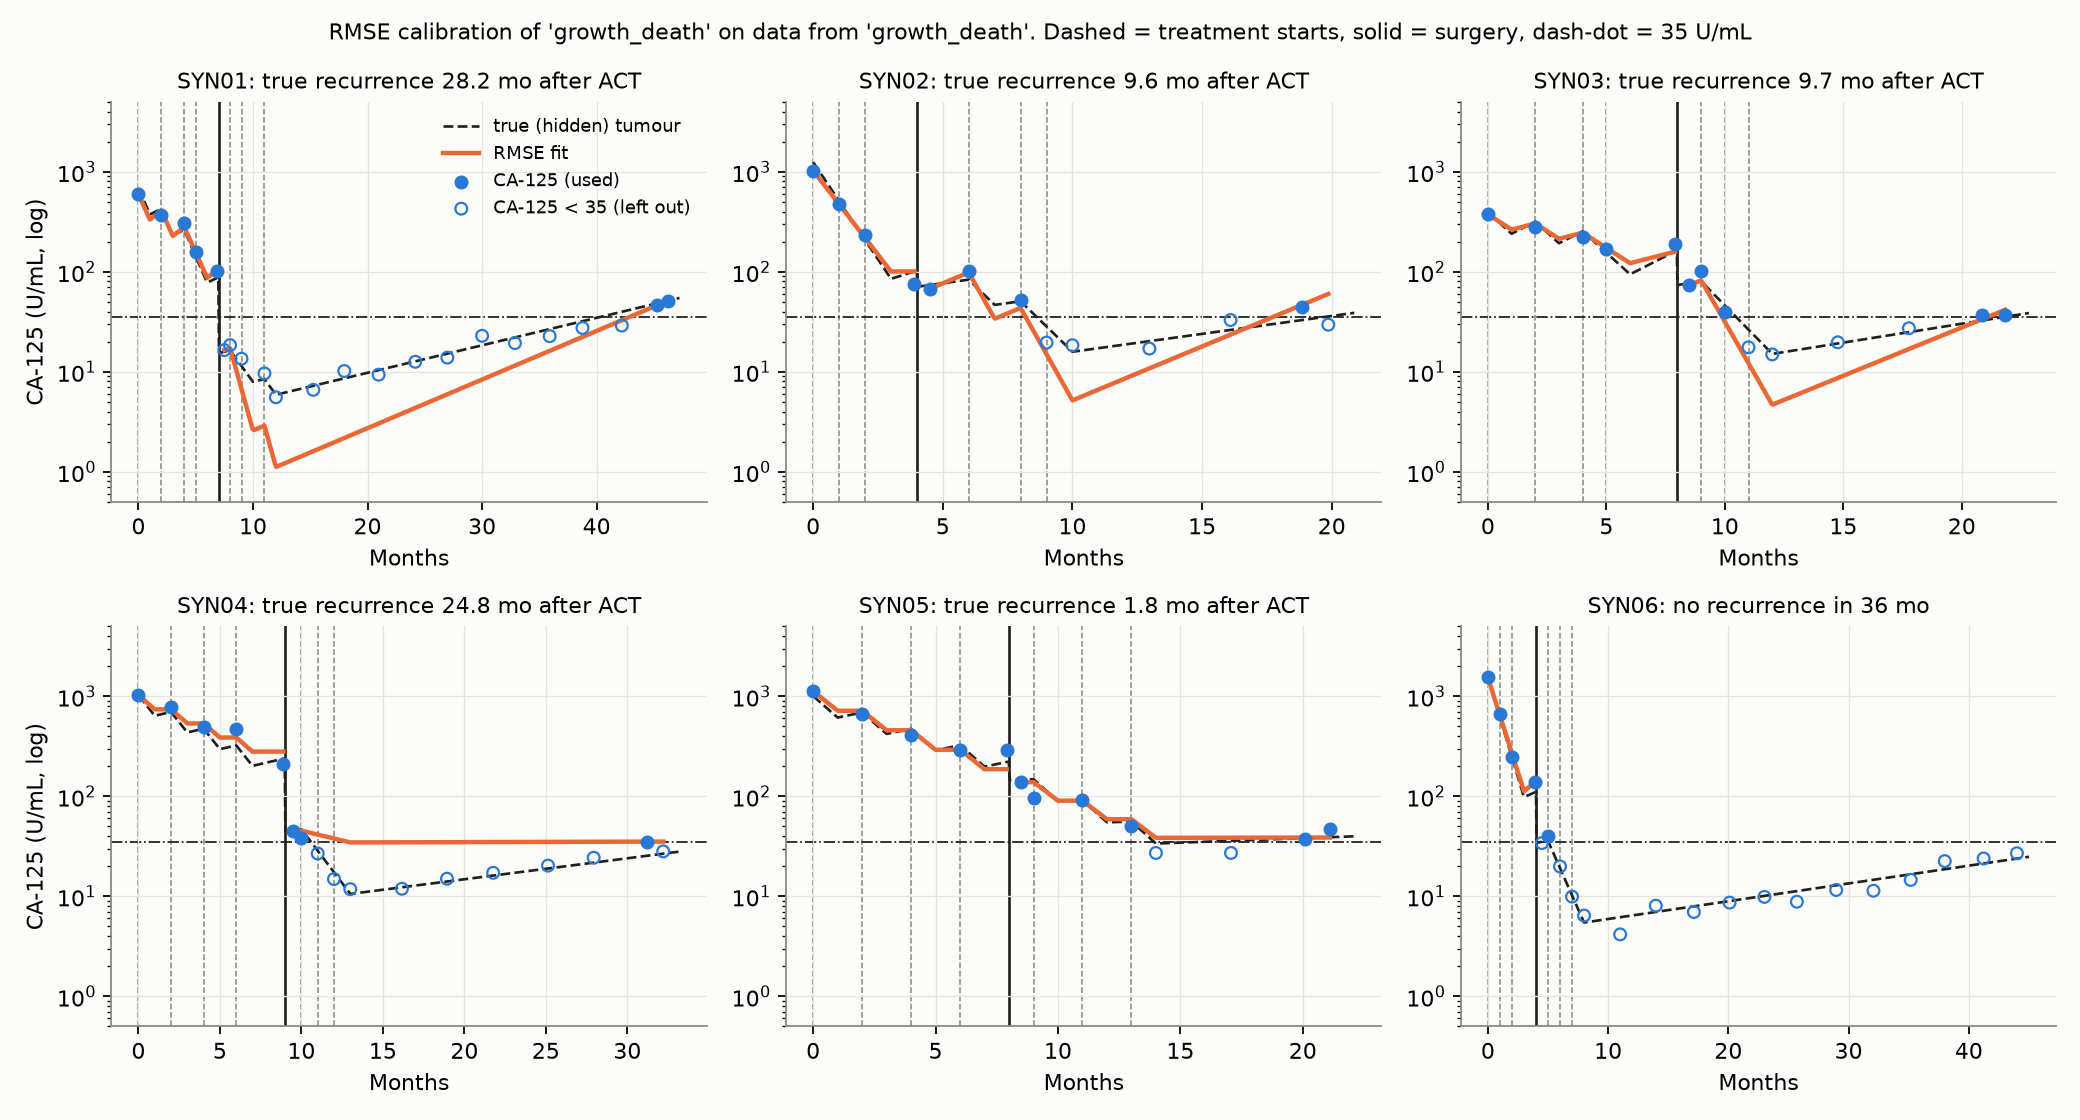
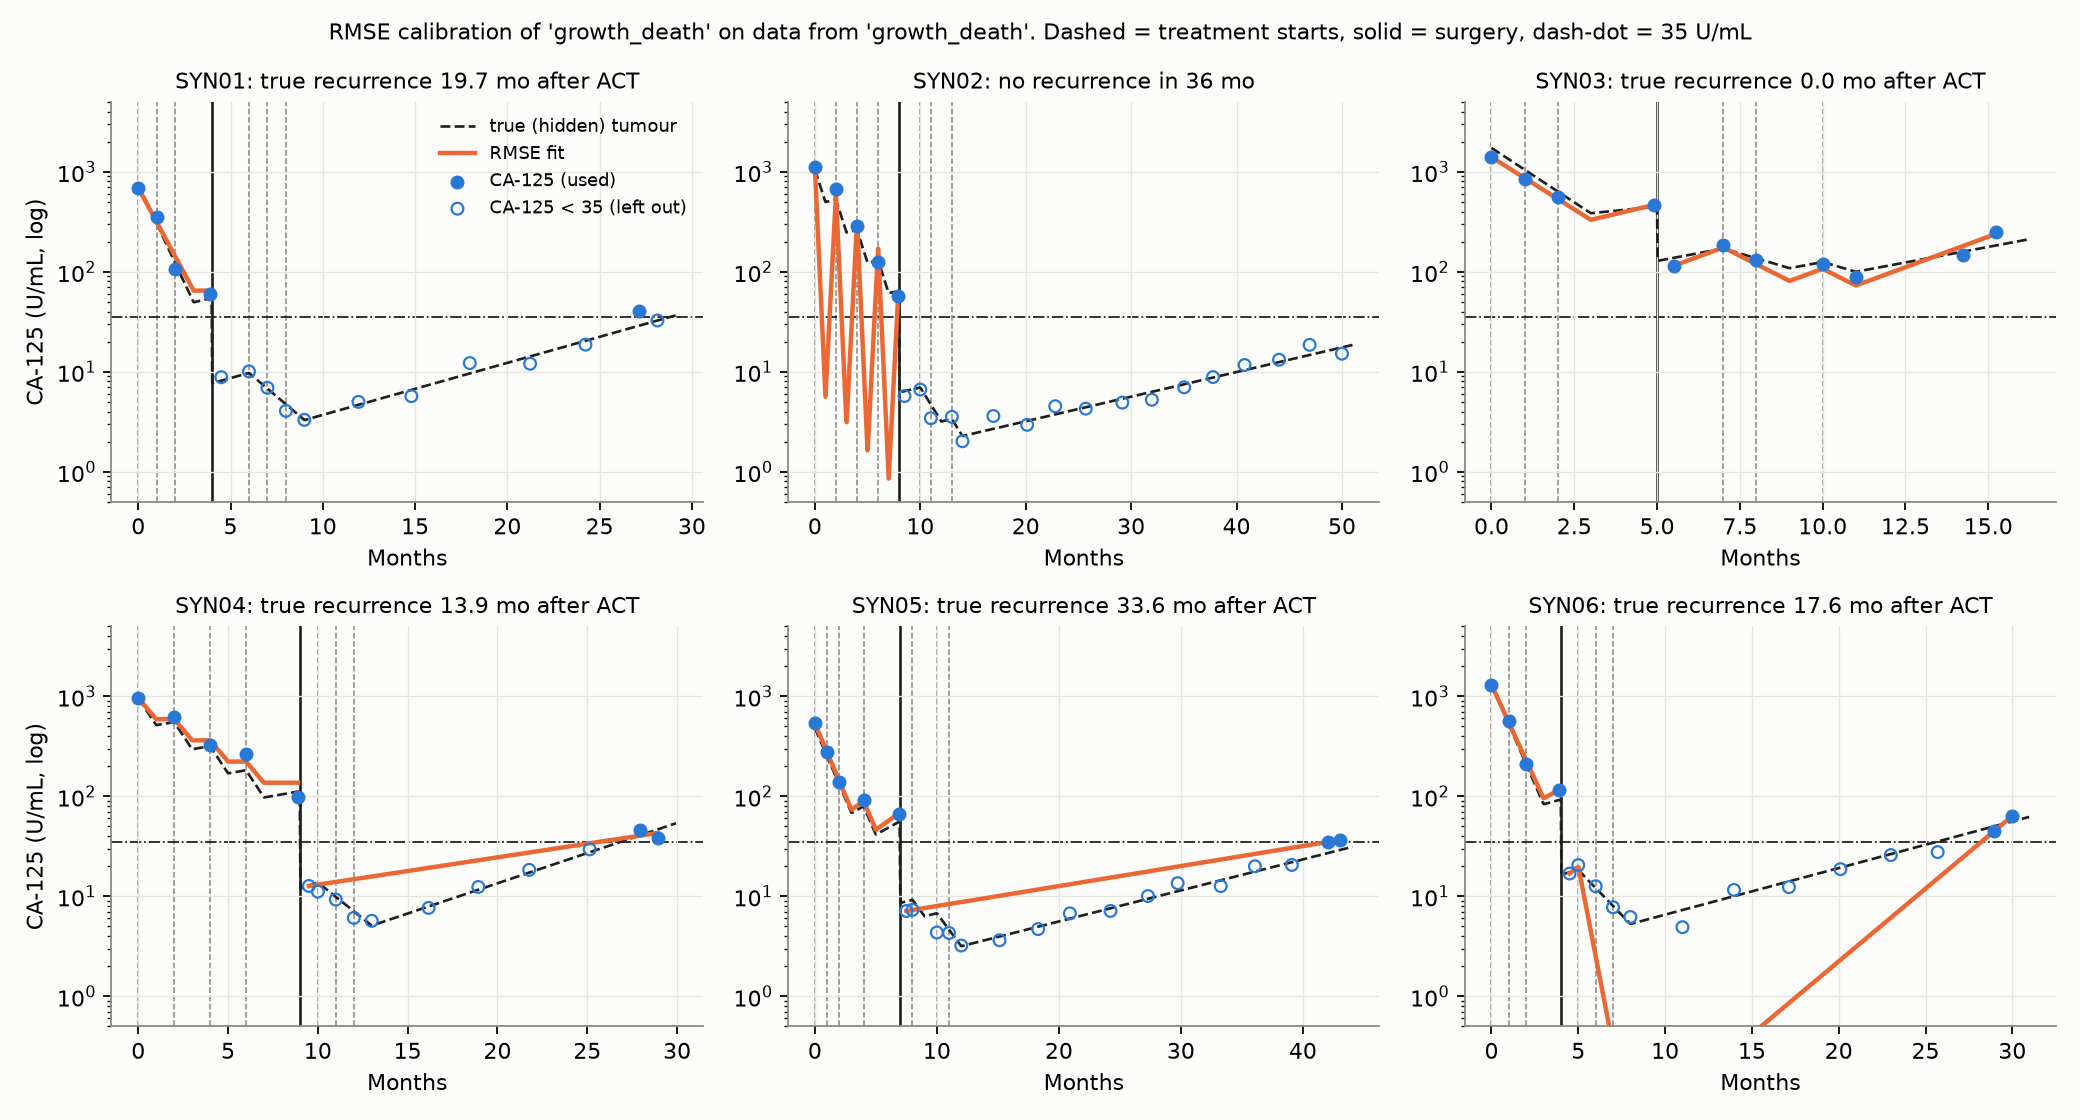
Surgery as the main drop; gate NACT level instead of the post-ACT nadir
- Gate: true CA-125 must stay >= 30 U/mL before surgery (NACT alone does not bring it
  very low); after surgery it may fall as low as the model takes it.
- Surgery jump gate now [0.01, 0.3] with median q = 0.2: surgery is the big drop.
- Population retuned: CA-125 just before surgery ~40 / 80 / 190 at the 10th / 50th /
  90th percentile; ~16% / 32% recur within 6 / 12 months after ACT.

diff --git a/ovca/config.py b/ovca/config.py
@@ -25,15 +25,16 @@ SURVEILLANCE_EVERY = 3.0     # a CA-125 reading every ~3 months during surveilla
 GRID_STEP = 0.01             # months, for finding when the true curve crosses the cutoff
 
 # Population of patient parameters, per model. Each value is log-normal around the median
-# ("typical patient"); `corr` is on the log scale. Tuned with engineering/tune_population.py so
-# that, after the NADIR_MIN redraw, the nadir median is ~12 U/mL and about 20% / 33% recur
-# within 6 / 12 months of the end of ACT. About 60% of raw draws are redrawn by NADIR_MIN, so
-# the final cohort is shifted to slower kill than these medians.
+# ("typical patient"); `corr` is on the log scale. Tuned with engineering/tune_population.py
+# (both gates on): NACT brings CA-125 only partly down (true CA-125 just before surgery about
+# 40 / 80 / 190 at the 10th / 50th / 90th percentile), surgery is the big drop, ACT pushes it
+# lower; about 16% / 32% recur within 6 / 12 months after ACT, ~17% not within 36 months,
+# ~3% persistent. About 40% of raw draws are redrawn by the gates.
 POPULATION = {
     "growth_death": dict(
         names=["gamma_pre", "delta_pre", "gamma_post", "delta_post"],
-        median=[0.10, 0.95, 0.04, 0.70],
-        sd_log=[0.50, 0.25, 0.55, 0.25],
+        median=[0.10, 0.90, 0.10, 0.50],
+        sd_log=[0.40, 0.20, 0.45, 0.25],
         corr=np.array([
             [1.0, 0.0, 0.6, 0.0],
             [0.0, 1.0, 0.0, 0.6],
@@ -42,10 +43,11 @@ POPULATION = {
         ]),
     ),
 }
-CA125_0_MEDIAN, CA125_0_SD_LOG = 800.0, 0.6   # baseline CA-125 (U/mL)
-Q_MEDIAN, Q_SD_LOG = 0.35, 0.6                # fraction of tumour left by surgery
-Q_RANGE = (0.02, 1.0)
-SURGERY_JUMP_RANGE = (0.05, 0.8)   # gate: CA-125 just after / just before surgery must be in
-                                   # this range (a clear drop, but not near-total), else redraw
-NADIR_MIN = 5.0              # redraw a patient whose true CA-125 falls below this (U/mL) by end of ACT
+CA125_0_MEDIAN, CA125_0_SD_LOG = 800.0, 0.45  # baseline CA-125 (U/mL)
+Q_MEDIAN, Q_SD_LOG = 0.20, 0.6                # fraction of tumour left by surgery
+Q_RANGE = (0.001, 1.0)
+SURGERY_JUMP_RANGE = (0.01, 0.3)   # gate: CA-125 just after / just before surgery (surgery is
+                                   # the big drop, but not to nothing), else redraw
+PRE_SURGERY_MIN = 30.0       # gate: NACT alone does not push true CA-125 below this (U/mL);
+                             # after surgery it may go as low as the model takes it
 MAX_REDRAWS = 1000

diff --git a/ovca/generator.py b/ovca/generator.py
@@ -48,9 +48,10 @@ def sample_schedule(rng):
     return Schedule(nact, t_surg, act)
 
 
-def nadir(model: BaseModel, p: PatientParameters, step=0.05):
-    """Lowest true CA-125 from t = 0 to the end of ACT."""
-    return float(model.simulate_patient(np.arange(0.0, p.schedule.t_end + step / 2, step), p).min())
+def pre_surgery_min(model: BaseModel, p: PatientParameters, step=0.05):
+    """Lowest true CA-125 before surgery (during NACT)."""
+    t = np.append(np.arange(0.0, p.schedule.t_surgery, step), p.schedule.t_surgery - 1e-9)
+    return float(model.simulate_patient(t, p).min())
 
 
 def surgery_jump(model: BaseModel, p: PatientParameters):
@@ -61,20 +62,20 @@ def surgery_jump(model: BaseModel, p: PatientParameters):
 
 
 def sample_parameters(rng, model: BaseModel, patient_id, population=None,
-                      nadir_min=C.NADIR_MIN, jump_range=C.SURGERY_JUMP_RANGE):
+                      pre_min=C.PRE_SURGERY_MIN, jump_range=C.SURGERY_JUMP_RANGE):
     """Draw one patient's parameter set from the population (log-normal around the median).
 
     Two gates; a draw that fails either is redrawn:
-      - surgery must give a clear jump: after/before CA-125 within jump_range;
-      - true CA-125 must not fall below nadir_min before the end of ACT.
-    Pass None to switch a gate off.
+      - NACT does not bring CA-125 down too far: true CA-125 stays >= pre_min before surgery;
+      - surgery is the big drop: after/before CA-125 within jump_range.
+    After surgery CA-125 may fall as low as the model takes it. Pass None to switch a gate off.
     """
     for _ in range(C.MAX_REDRAWS):
         p = _draw_parameters(rng, model, patient_id, population)
         if jump_range is not None and not (jump_range[0] <= surgery_jump(model, p)
                                            <= jump_range[1]):
             continue
-        if nadir_min is not None and nadir(model, p) < nadir_min:
+        if pre_min is not None and pre_surgery_min(model, p) < pre_min:
             continue
         return p
     raise RuntimeError(f"no draw passed the gates in {C.MAX_REDRAWS} tries")

diff --git a/tests/test_ovca.py b/tests/test_ovca.py
@@ -32,7 +32,7 @@ def test_surgery_jump():
     assert np.isclose(after / before, p.q_surgery, rtol=1e-6)
     lo, hi = generator.C.SURGERY_JUMP_RANGE
     assert lo <= generator.surgery_jump(m, p) <= hi          # the gate holds
-    assert generator.nadir(m, p) >= generator.C.NADIR_MIN
+    assert generator.pre_surgery_min(m, p) >= generator.C.PRE_SURGERY_MIN
 
 
 def test_recurrence_time_without_treatment():

diff --git a/README.md b/README.md
@@ -32,8 +32,10 @@ uv venv .venv && uv pip install --python .venv/bin/python -r requirements.txt
    - **Schedule** (whole months): 3–4 NACT cycles from month 0, each on for 1 month then a
      0–1 month gap; surgery 1–2 months after the last NACT cycle ends; first ACT 1–2 months
      after surgery; 3 ACT cycles with the same 0–1 month gaps.
-   - **Gates** (a failing draw is redrawn): surgery must be a clear jump, CA-125 after/before in
-     [0.05, 0.8]; true CA-125 must stay ≥ 5 U/mL until the end of ACT.
+   - **Gates** (a failing draw is redrawn): NACT brings CA-125 only partly down (true CA-125
+     stays ≥ 30 U/mL before surgery; just before surgery it is ~40 / 80 / 190 at the 10th / 50th /
+     90th percentile); surgery is the big drop
+     (CA-125 after/before in [0.01, 0.3]). After surgery CA-125 may go as low as the model takes it.
 2. **Longitudinal data** (`generator.generate_longitudinal`): the model is simulated day by day
    before surgery, the state is multiplied by q at surgery, then simulated after surgery with the
    post-surgery parameters, up to 36 months after the end of ACT. CA-125 = model value with 15%
